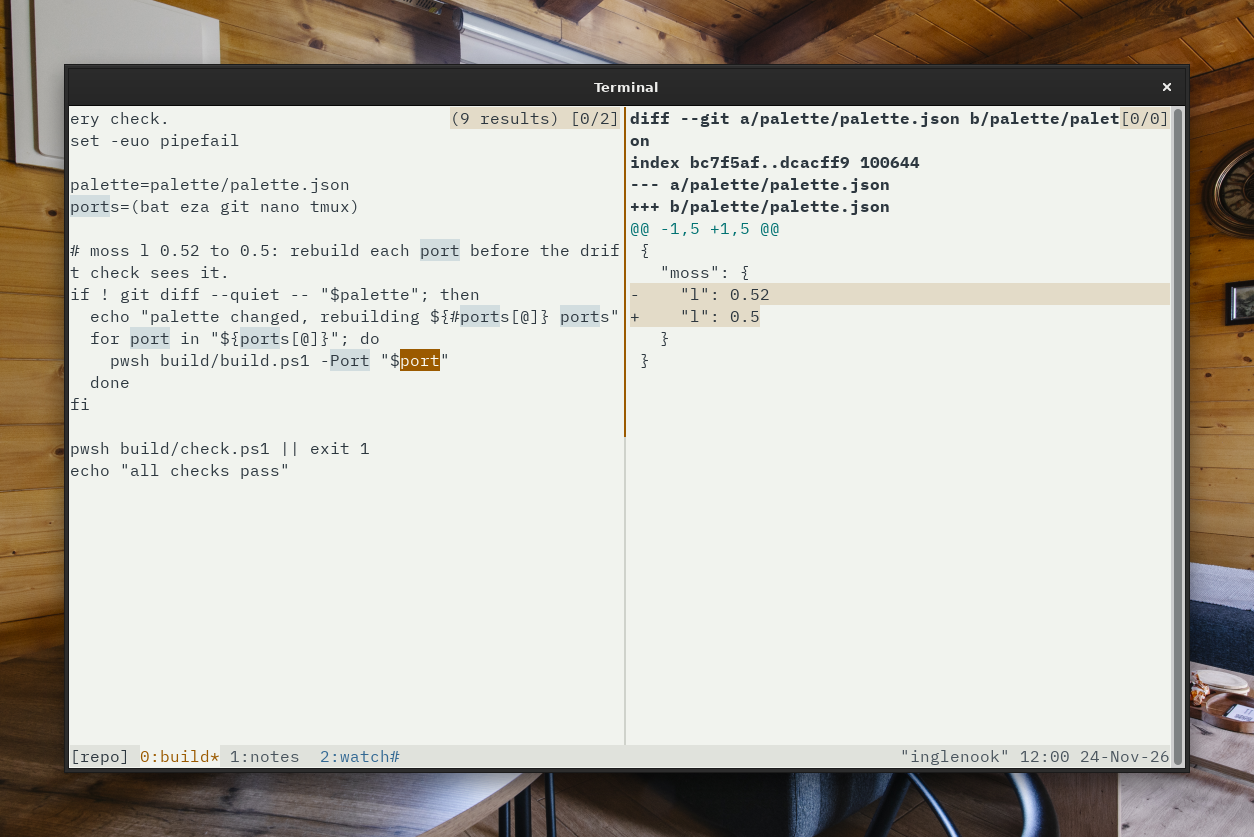
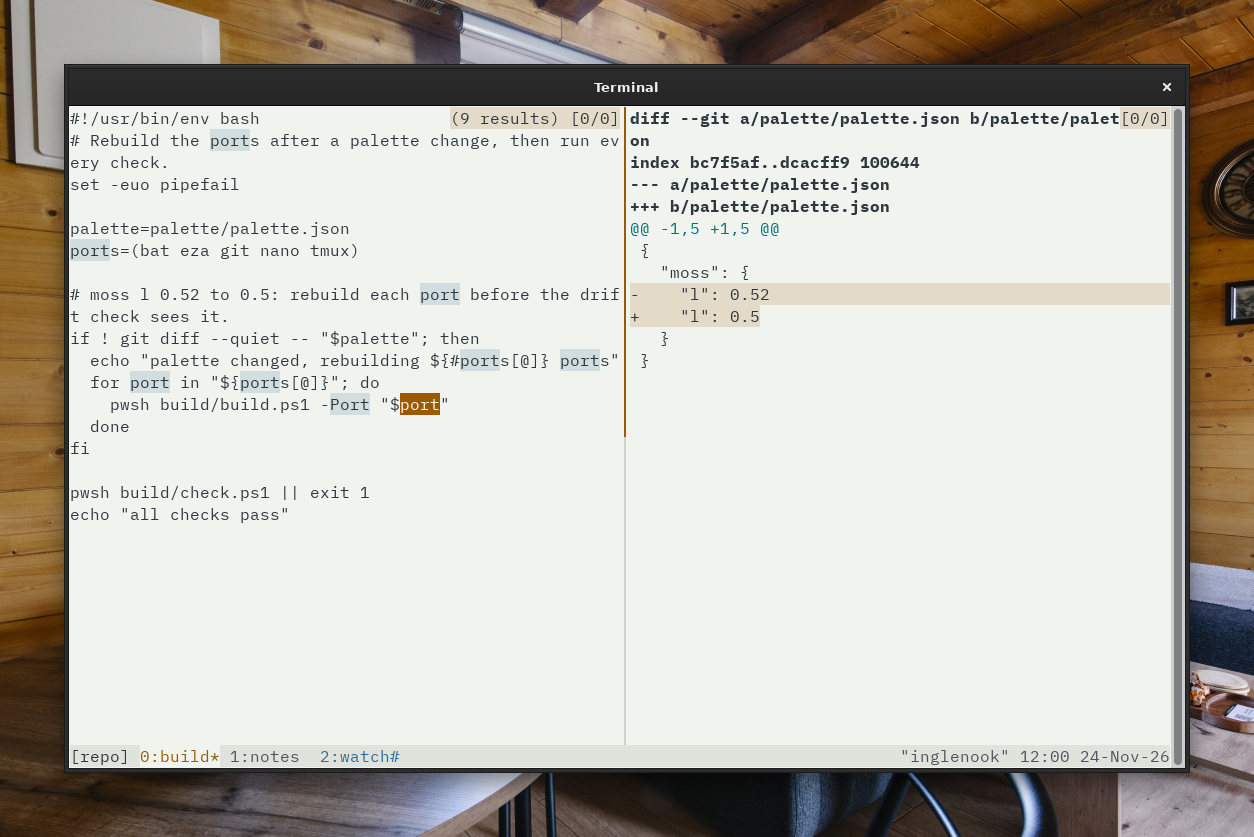
Retake the tmux shots with each pane printing after the split
Claude-Session: https://claude.ai/code/session_01NrEEbsUKosNEhFBoVLJiba

diff --git a/Ports/tmux/MAPPING.md b/Ports/tmux/MAPPING.md
@@ -40,7 +40,6 @@ The theme file is plain `set -g` lines the reader loads with `source-file`, so i
 
 - No pane background: setting `window-style` would paint the panes but not the programs in them, which keep the terminal's 16 colors. An Inglenook terminal gives both.
 - Options newer than 3.4 (`pane-scrollbars-style`, the copy mode line number styles) use `set -gq`, so older tmux skips them quietly. tmux 3.8 adds more (`tree-mode-border-style`, `display-panes-border-style`, `tree-mode-preview-style`, the `theme` option and `theme*` colour names); they are left at tmux's defaults until a release ships them.
-- In the shots the left pane starts mid-comment ("ery check."): the script is printed before the split, and tmux reflows it into the narrower pane, pushing the first lines into history. Starting the pane commands after the split (a `sleep 1` before each) fixes it; left for a retake when Docker has room.
 - The screenshots cannot show: `message-style` and `message-command-style` (a message replaces the window list in tmux 3.4), menus and popups, `copy-mode-mark-style`, the bell style, `display-panes` and the clock, the scrollbars and line numbers (tmux 3.4 has neither).
 
 ## Research
@@ -55,4 +54,4 @@ The theme file is plain `set -g` lines the reader loads with `source-file`, so i
 - tmux needs no login or license (ISC: https://github.com/tmux/tmux/blob/master/COPYING).
 - tmux 3.4 comes from the pinned Ubuntu snapshot, so the recipe has no `version`. Host: the GNOME Terminal port, whose `TERM` is `xterm-256color`.
 - The recipe writes `~/.config/tmux/tmux.conf` with the README's steps 5 and 6.
-- The scene (`build/photograph/scenes/cli/tmux/stage.sh`) builds the session with tmux commands in place of the reader's keys: the split, the copy mode selection and search, and a third window with activity monitoring on. Not tested by hand. `status-right` is fixed text instead of tmux's clock.
+- The scene (`build/photograph/scenes/cli/tmux/stage.sh`) builds the session with tmux commands in place of the reader's keys: the split, the copy mode selection and search, and a third window with activity monitoring on. Not tested by hand. `status-right` is fixed text instead of tmux's clock. Each pane's command waits a second before printing, so it prints after the split and tmux does not reflow it into history.
